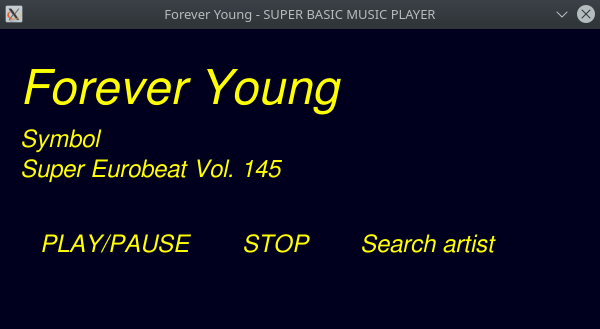
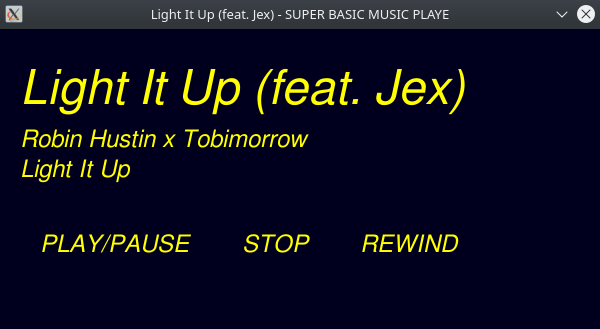
Fixed readme and updated image

diff --git a/README.md b/README.md
@@ -1,6 +1,6 @@
 # SuperBasicMusicPlayer
 
-<img src="sbmp.png" alt="Super Basic Music Player screen" />
+<img src="sbmp.png" alt="Super Basic Music Player screen, playing 'Light it Up', a song by Robin Hustin, TobiMorrow and Jex, released by NCS." />
 
 A WIP music player for Linux (originally launched via terminal). This code was initially made in few hours out of boredom while I was without internet connection, purely based on other projects I have made. I added and changed some things later on.
 
@@ -10,7 +10,7 @@ You must pass a song file through command line or dragging and dropping the file
 
 ## Issues (to be fixed)
 
-Unclean code. Untested using libraries already on the system. Cannot play opus and other music formats. May crash if the song has invalid metadata.
+Unclean code. Untested using libraries already on the system. Cannot play Opus and other music formats. Wasn't made to run on Windows nor MacOS X (might run if you fix the dependencies, but no guarantees).
 
 ## Dependencies
 
